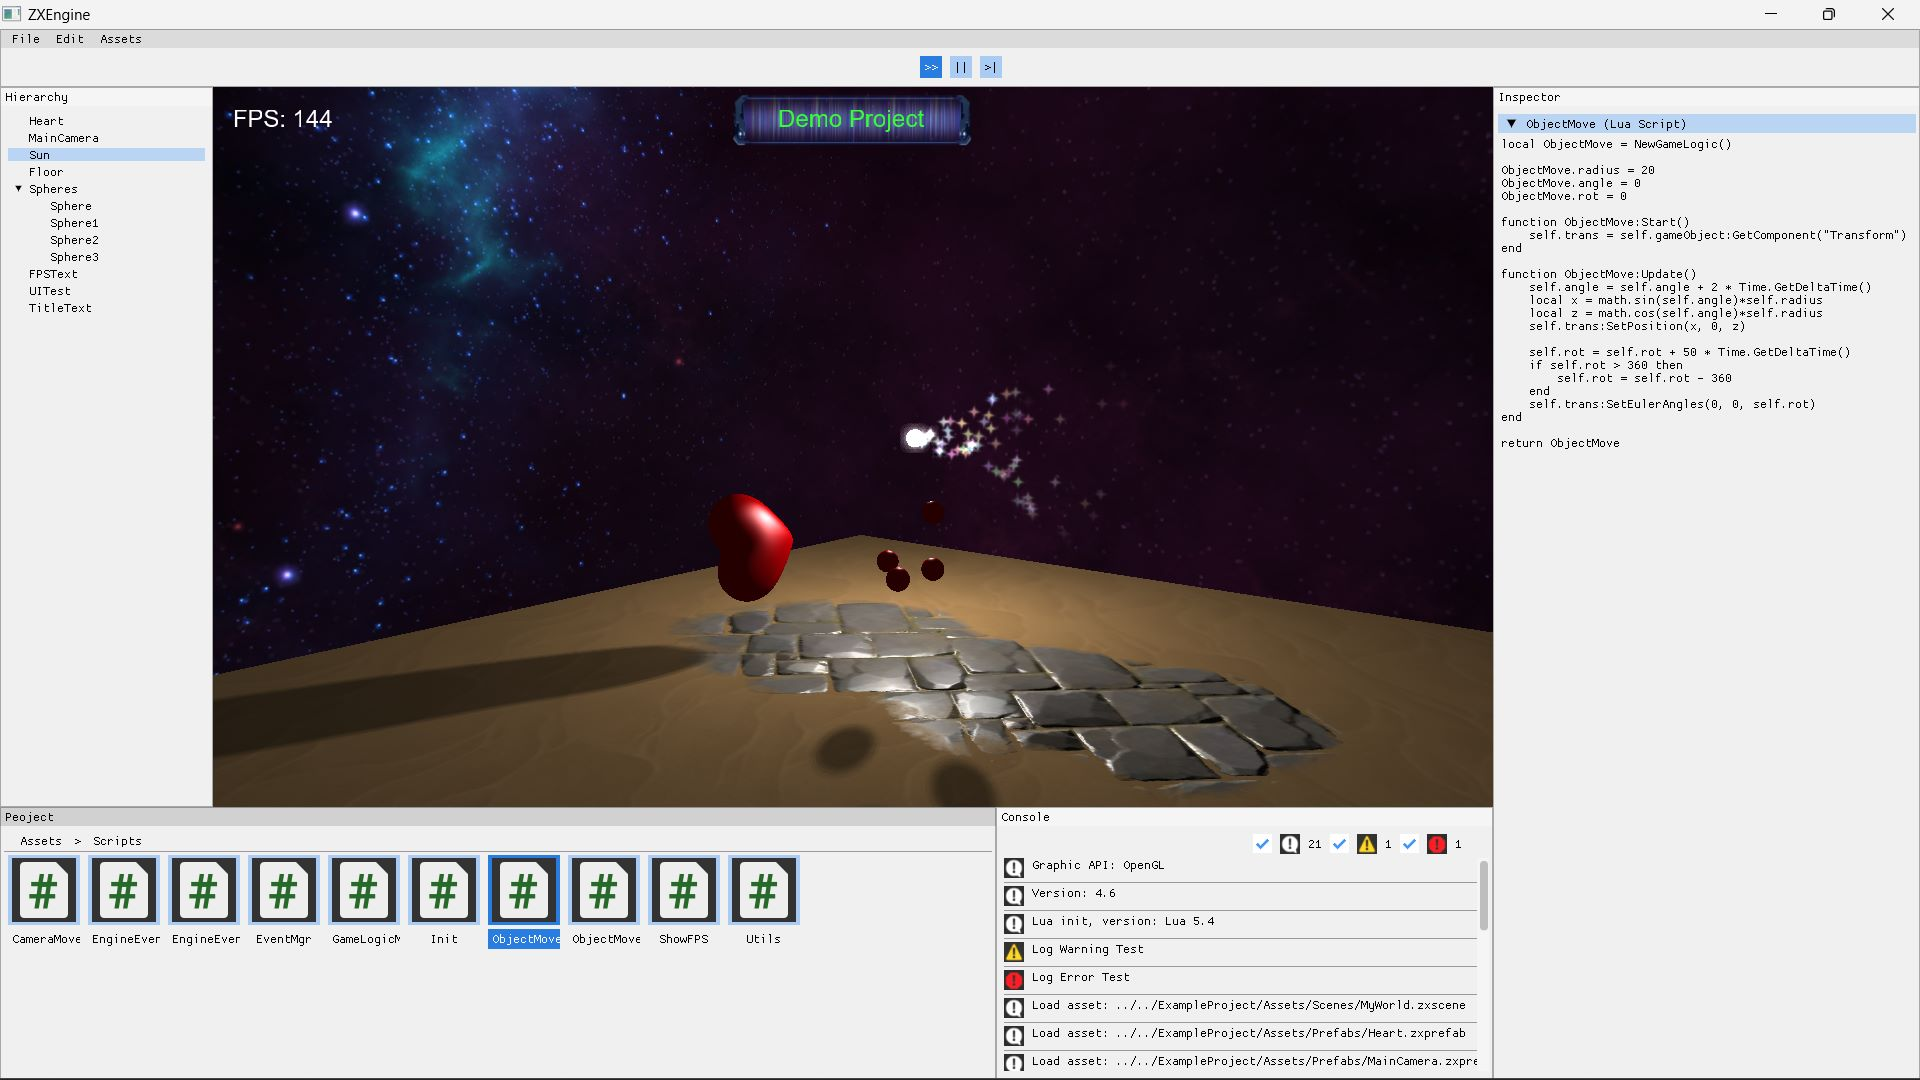
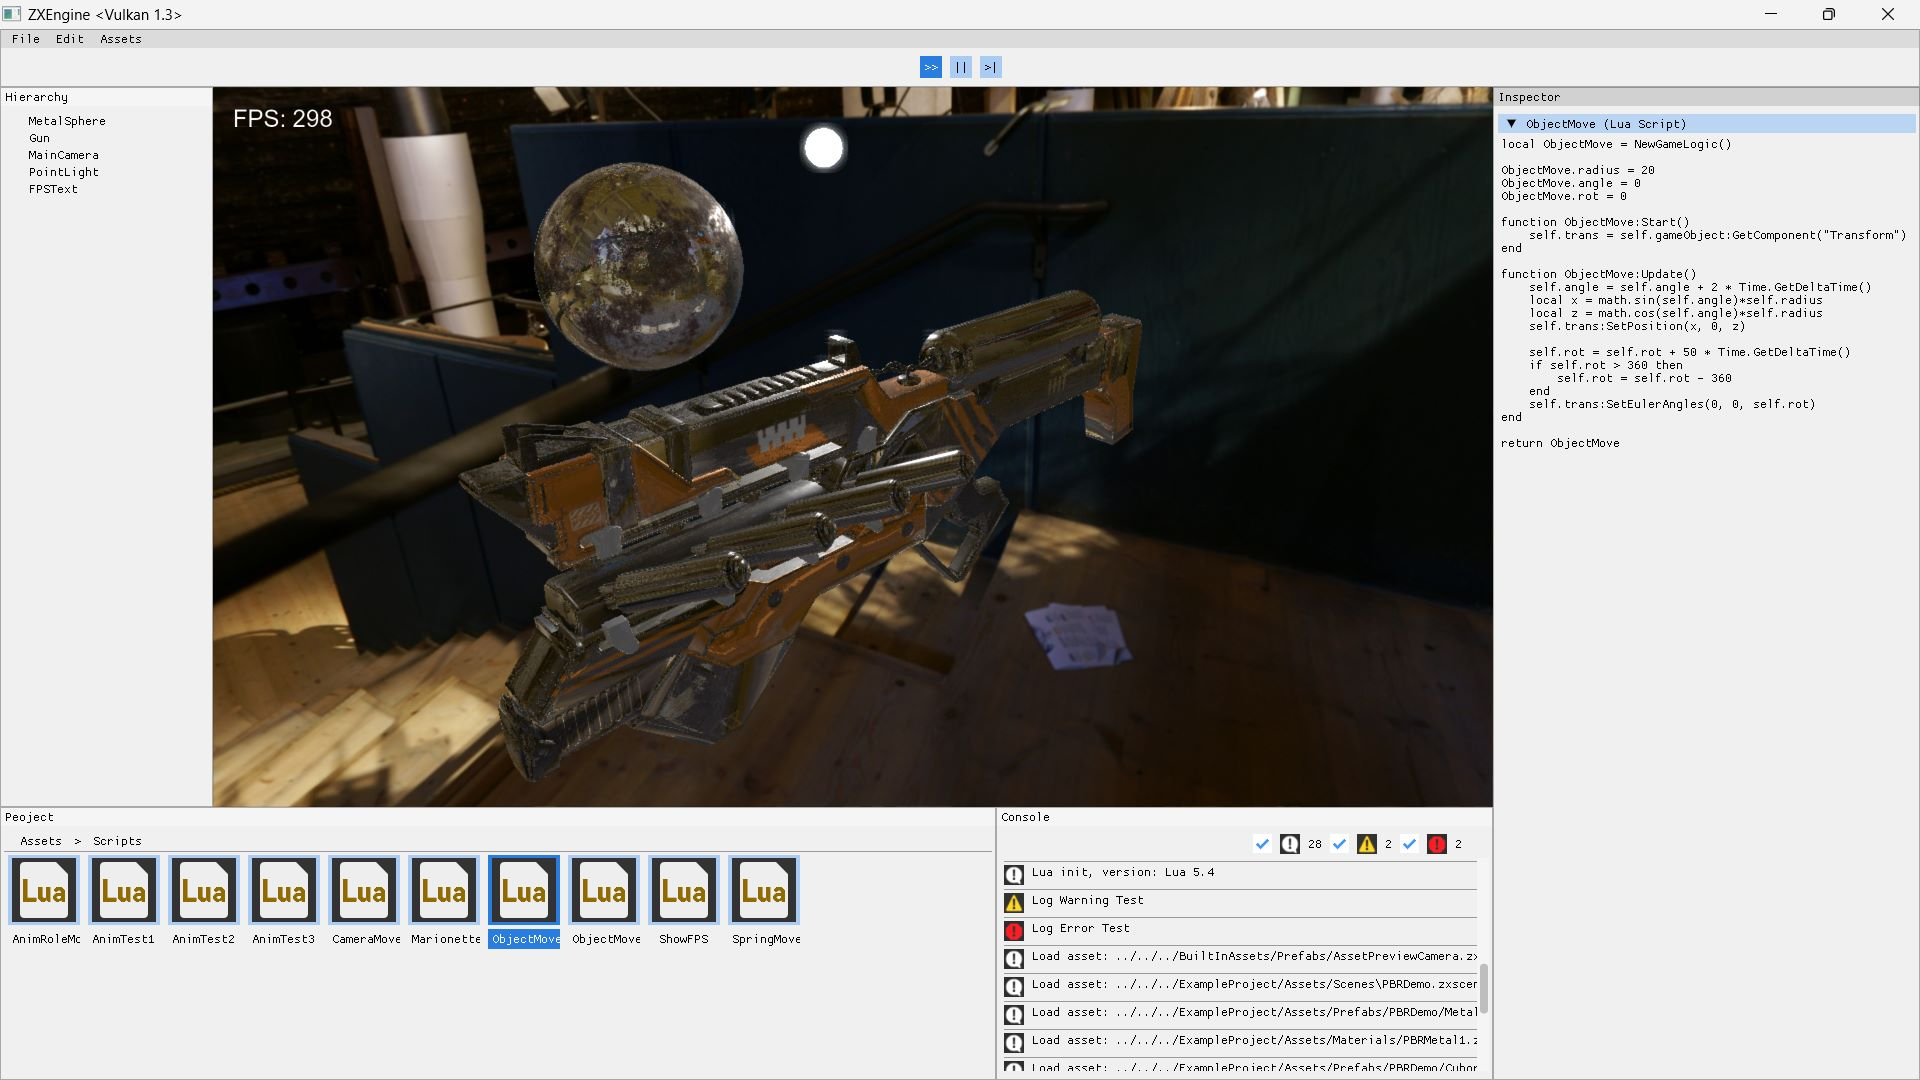
调整引擎编辑器中的Lua脚本图标

diff --git a/CPPScripts/Editor/EditorProjectPanel.cpp b/CPPScripts/Editor/EditorProjectPanel.cpp
@@ -243,7 +243,7 @@ namespace ZXEngine
 		fileIcons[(int)AssetType::Material]           = ImTextureMgr->LoadTexture(Resources::GetAssetFullPath("Textures/icons/material.png", true));
 		fileIcons[(int)AssetType::RayTracingMaterial] = ImTextureMgr->LoadTexture(Resources::GetAssetFullPath("Textures/icons/material.png", true));
 		fileIcons[(int)AssetType::Prefab]             = ImTextureMgr->LoadTexture(Resources::GetAssetFullPath("Textures/icons/prefab.png",   true));
-		fileIcons[(int)AssetType::Script]             = ImTextureMgr->LoadTexture(Resources::GetAssetFullPath("Textures/icons/script.png",   true));
+		fileIcons[(int)AssetType::Script]             = ImTextureMgr->LoadTexture(Resources::GetAssetFullPath("Textures/icons/lua.png",      true));
 		fileIcons[(int)AssetType::Shader]             = ImTextureMgr->LoadTexture(Resources::GetAssetFullPath("Textures/icons/shader.png",   true));
 		fileIcons[(int)AssetType::Texture]            = ImTextureMgr->LoadTexture(Resources::GetAssetFullPath("Textures/icons/texture.png",  true));
 		fileIcons[(int)AssetType::Scene]              = ImTextureMgr->LoadTexture(Resources::GetAssetFullPath("Textures/icons/scene.png",    true));
